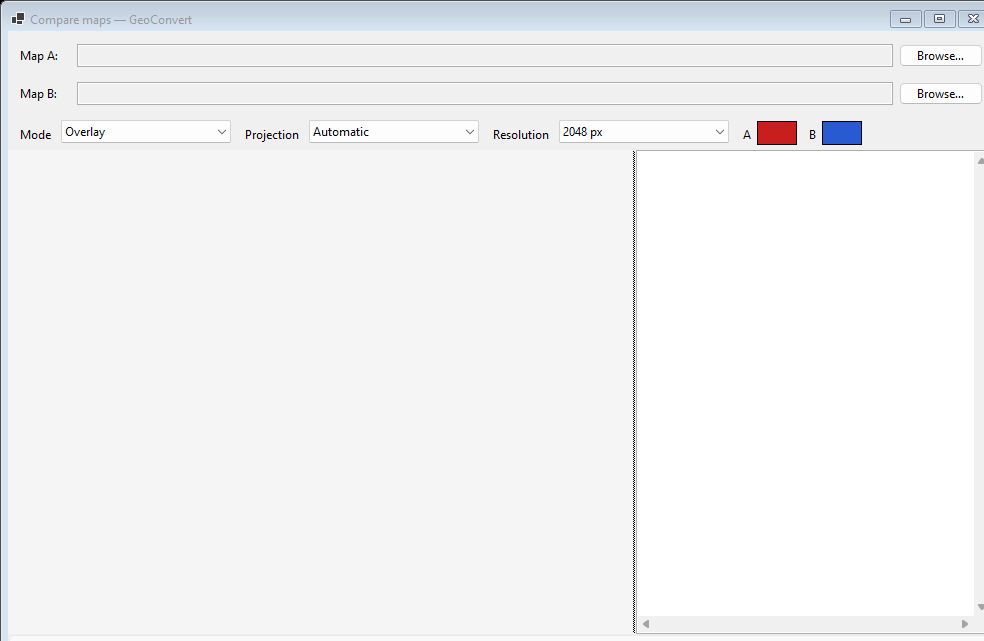
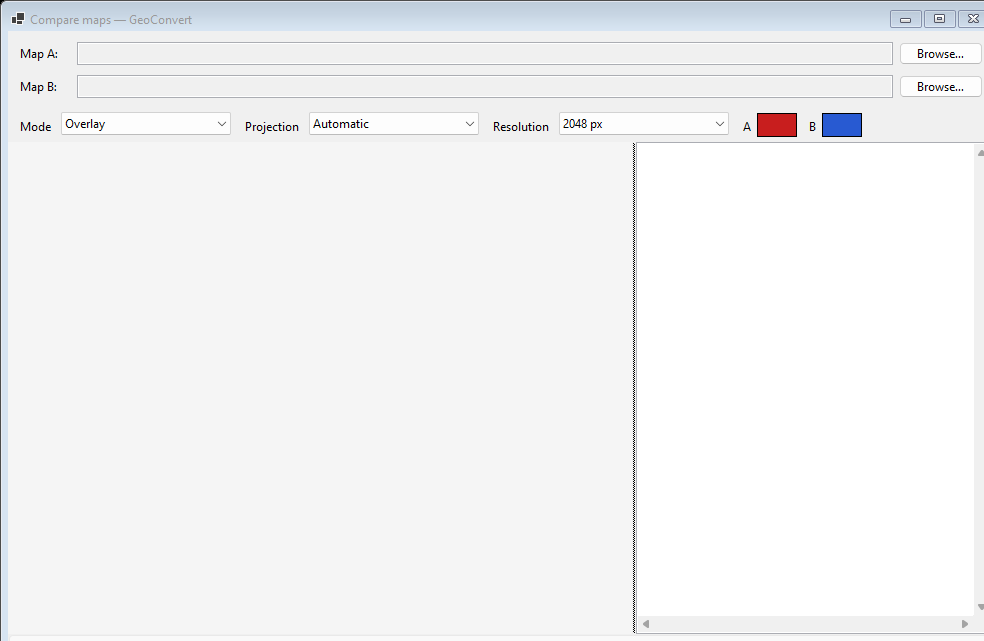
.

diff --git a/src/GeoConvert.App/Ui/DiffForm.cs b/src/GeoConvert.App/Ui/DiffForm.cs
@@ -125,14 +125,16 @@ sealed class DiffForm : Form
             Dock = DockStyle.Top,
             ColumnCount = 3,
             RowCount = 2,
-            Height = 84,
-            Padding = new(6, 6, 6, 2),
+            // Auto-size the rows (rather than a fixed-height Absolute row) so they scale with the display
+            // DPI; a fixed row height left the Dock=Fill labels top-aligned against the (DPI-scaled) text
+            // boxes at 125%+.
+            AutoSize = true,
+            AutoSizeMode = AutoSizeMode.GrowAndShrink,
+            Padding = new(6, 6, 6, 4),
         };
         table.ColumnStyles.Add(new(SizeType.Absolute, 60));
         table.ColumnStyles.Add(new(SizeType.Percent, 100));
         table.ColumnStyles.Add(new(SizeType.Absolute, 90));
-        table.RowStyles.Add(new(SizeType.Absolute, 38));
-        table.RowStyles.Add(new(SizeType.Absolute, 38));
 
         pathBoxA = AddInputRow(table, "Map A:", pathA, _ => LoadAInto(_));
         pathBoxB = AddInputRow(table, "Map B:", pathB, _ => LoadBInto(_));
@@ -144,10 +146,10 @@ sealed class DiffForm : Form
         // The label fills its fixed-height cell and centres its text vertically (MiddleLeft), so it lines
         // up with the text box. The box and button anchor left+right at their natural height and the
         // TableLayoutPanel centres them in the row.
-        table.Controls.Add(new Label { Text = label, Dock = DockStyle.Fill, TextAlign = ContentAlignment.MiddleLeft, Margin = new(3, 0, 3, 0) });
-        var box = new TextBox { Anchor = AnchorStyles.Left | AnchorStyles.Right, ReadOnly = true, Text = value ?? string.Empty, Margin = new(3, 0, 3, 0) };
+        table.Controls.Add(new Label { Text = label, Dock = DockStyle.Fill, TextAlign = ContentAlignment.MiddleLeft, Margin = new(3, 5, 3, 5) });
+        var box = new TextBox { Anchor = AnchorStyles.Left | AnchorStyles.Right, ReadOnly = true, Text = value ?? string.Empty, Margin = new(3, 5, 3, 5) };
         table.Controls.Add(box);
-        var browse = new Button { Text = "Browse…", Anchor = AnchorStyles.Left | AnchorStyles.Right, Margin = new(3, 0, 3, 0) };
+        var browse = new Button { Text = "Browse…", Anchor = AnchorStyles.Left | AnchorStyles.Right, Margin = new(3, 5, 3, 5) };
         browse.Click += (_, _) =>
         {
             using var dialog = new OpenFileDialog
